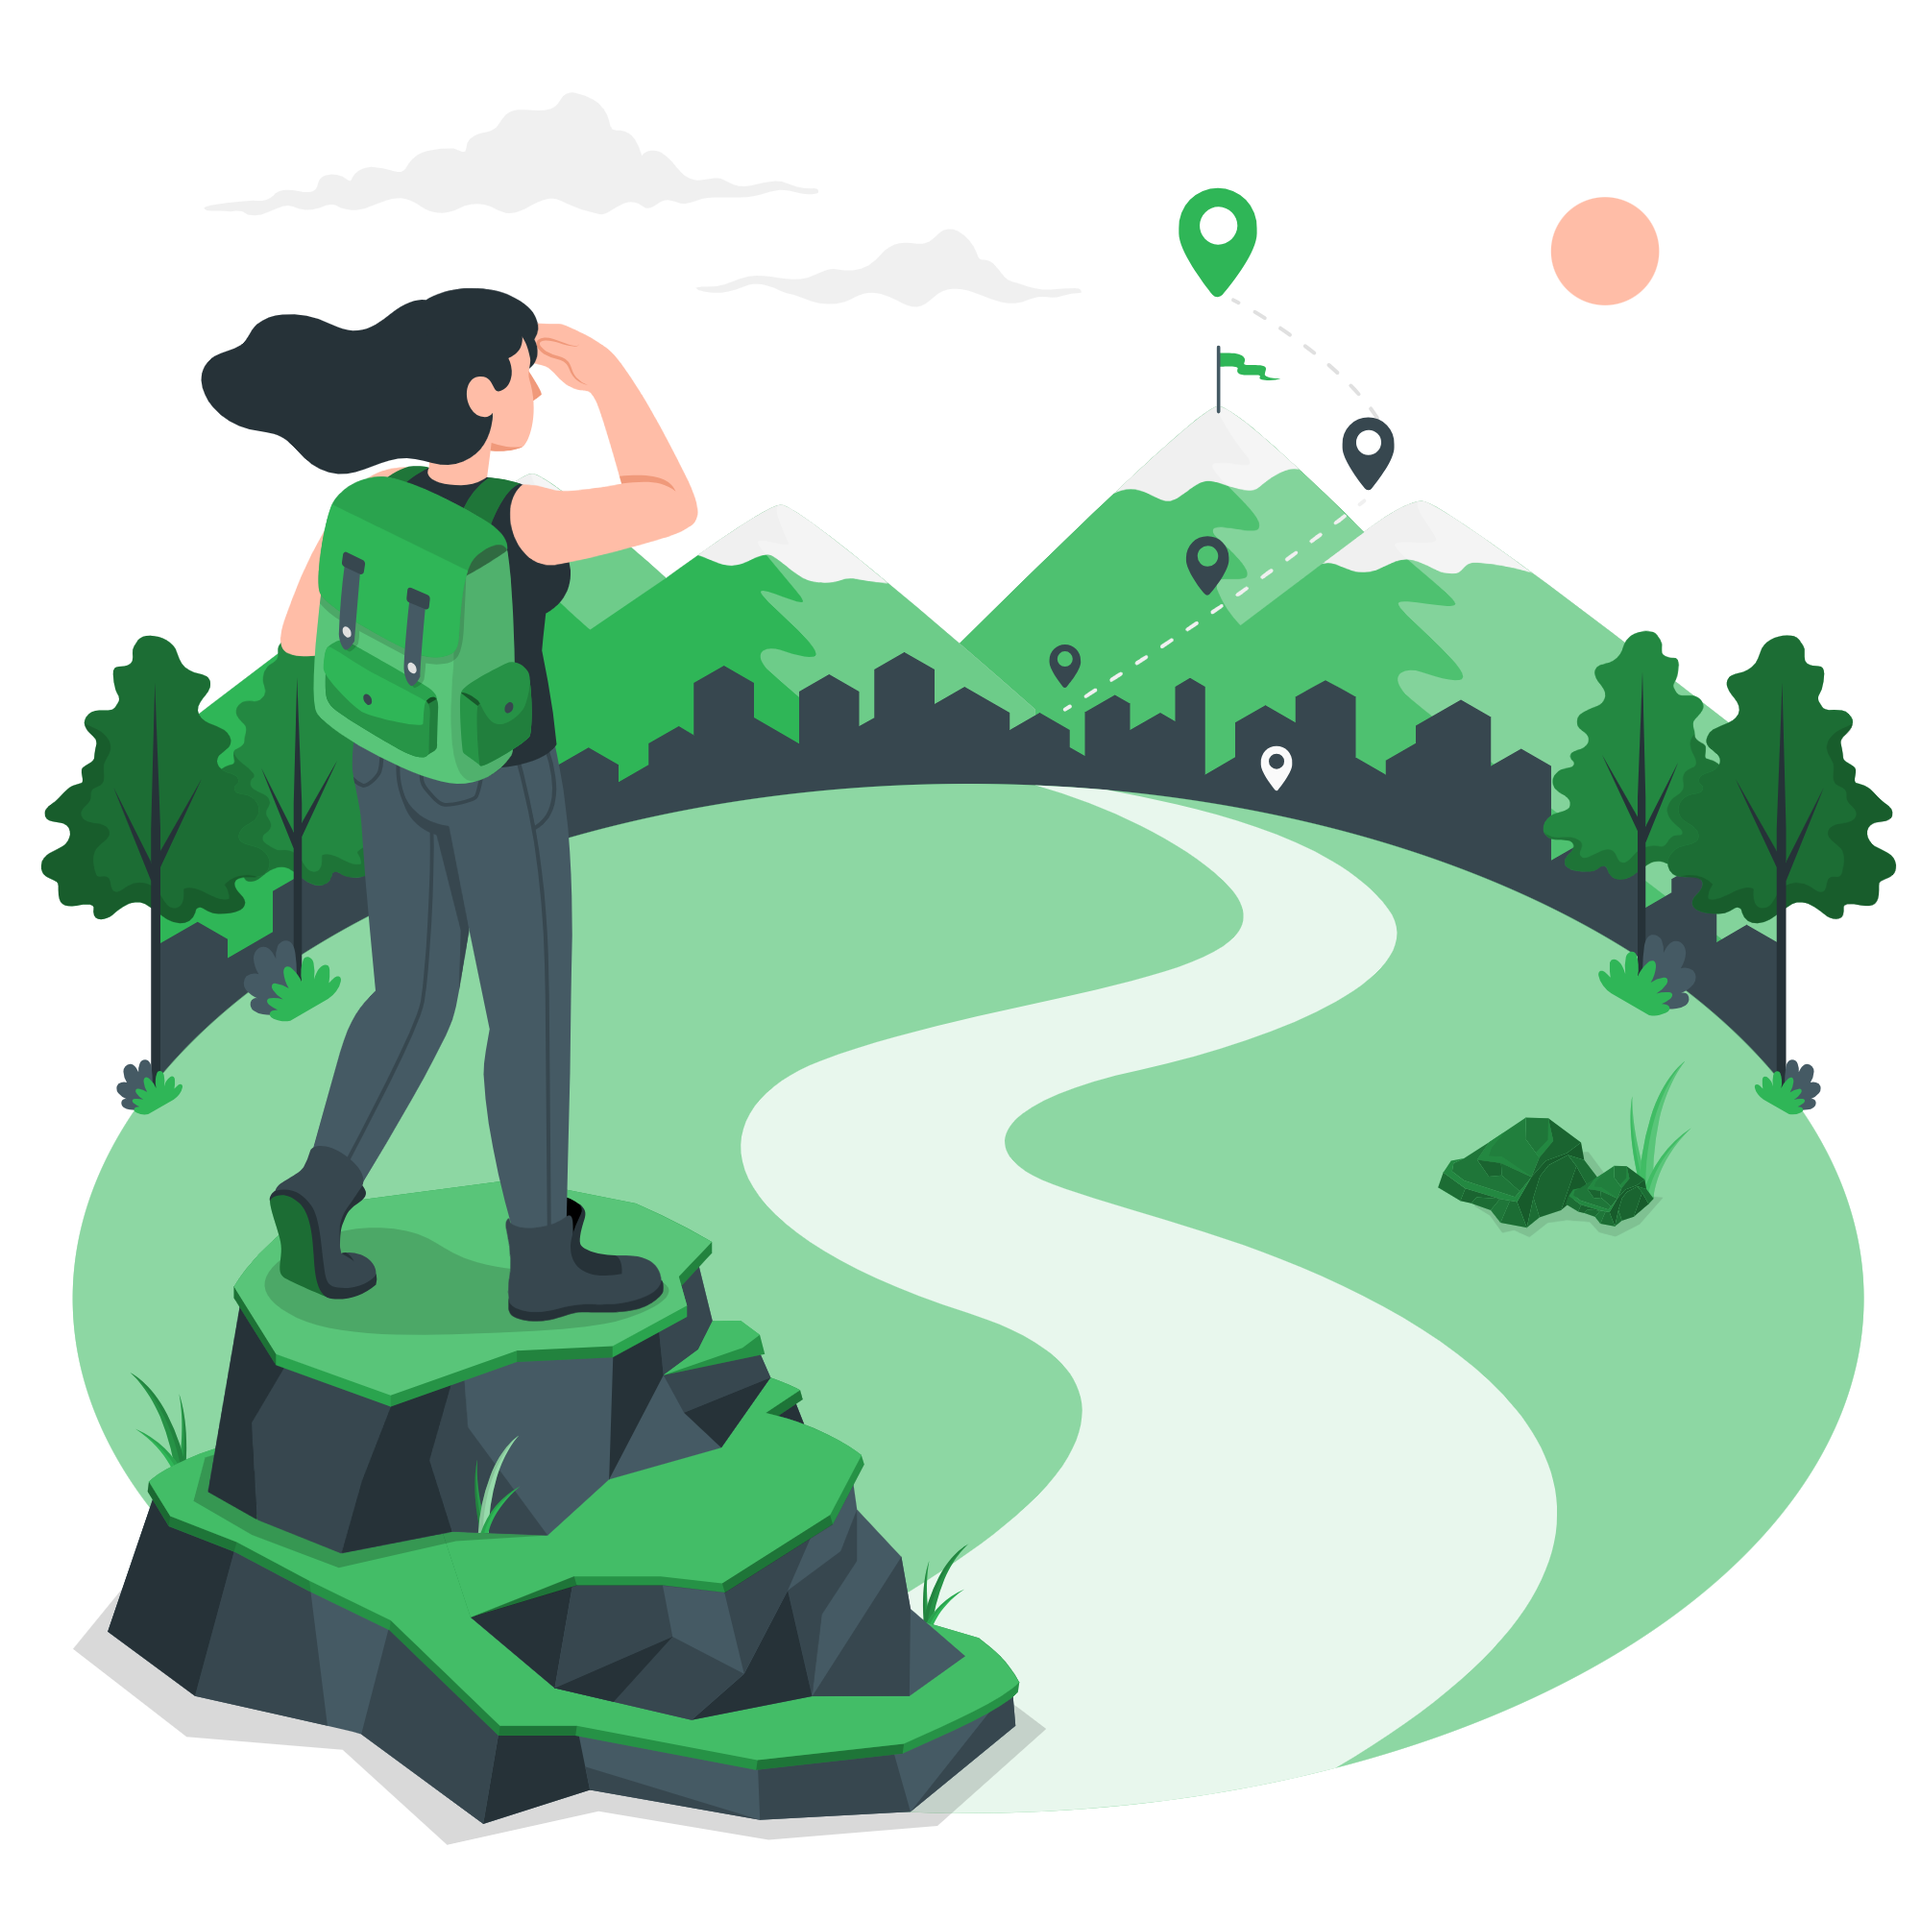
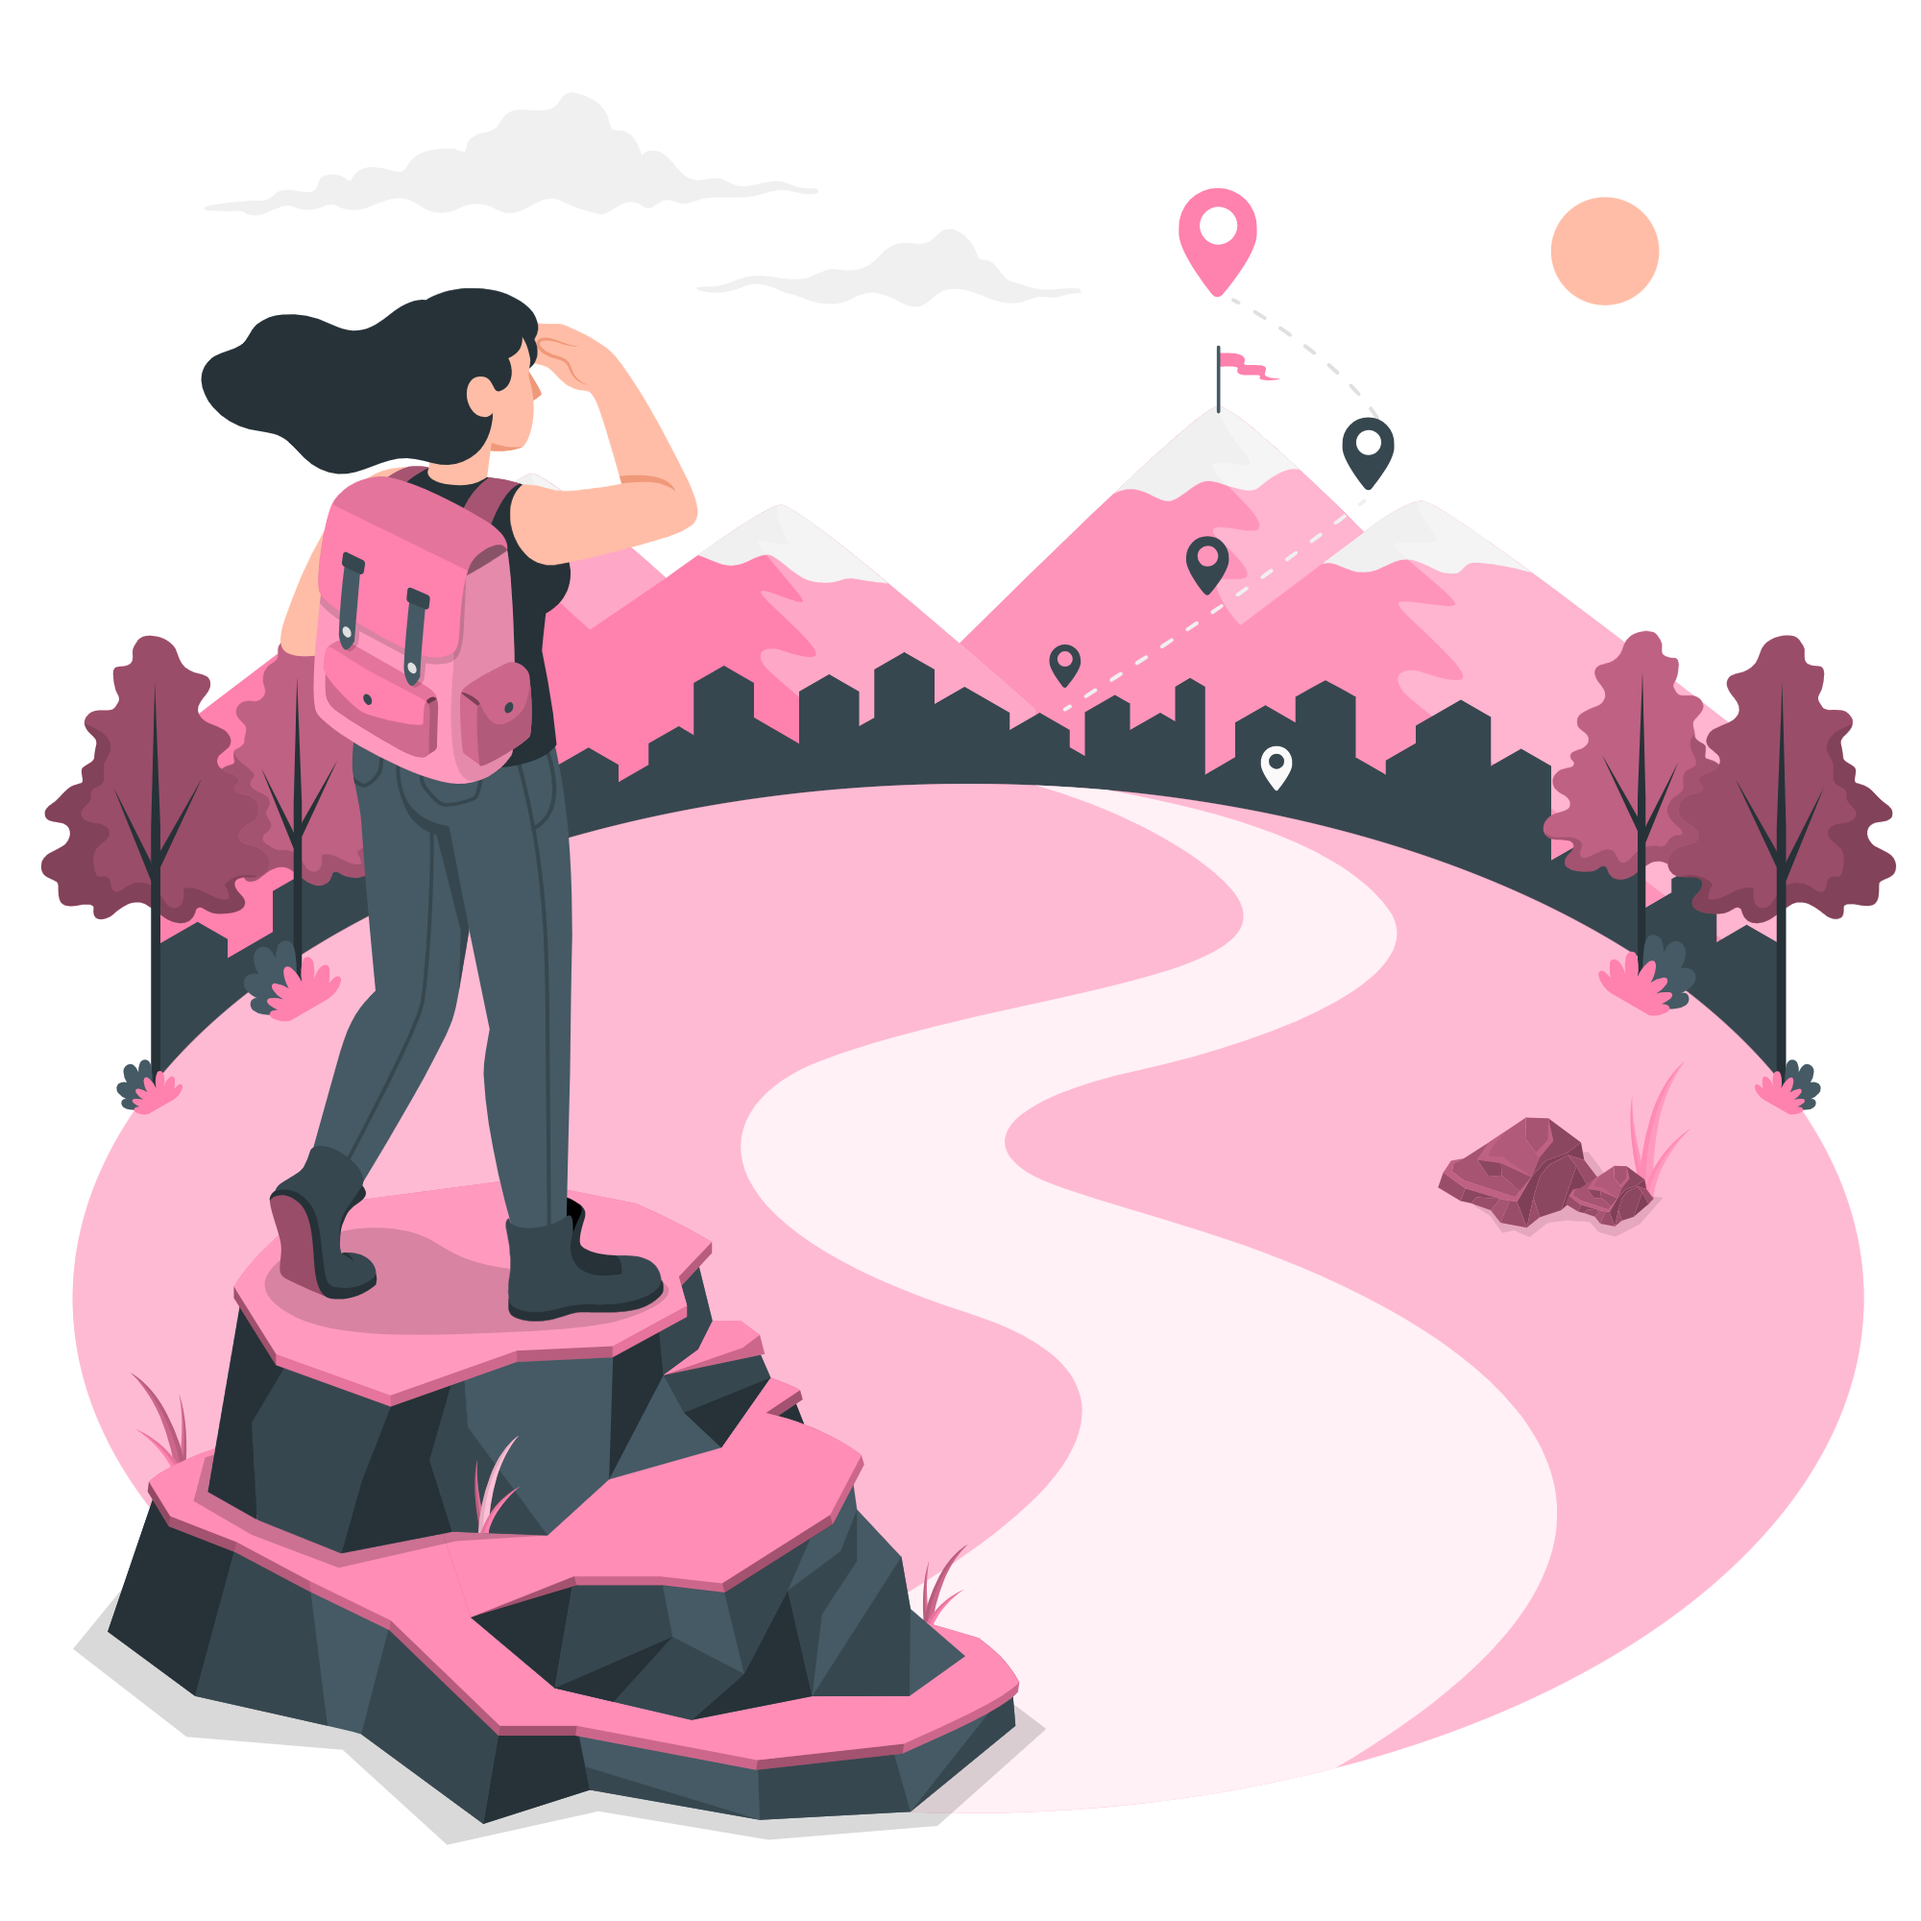
img added

diff --git a/index.html b/index.html
@@ -1,10 +1,22 @@
 <!DOCTYPE html>
+
 <head>
     <title>Document</title>
 </head>
+
 <body>
     <h1>Welcome to Snehal's HomeStay</h1>
-    <img src="./img/main-img.png" alt="HomeStay Image" height="300px" />
+    <img src="./img/main-img.png" alt="HomeStay Image" height="350px" />
     <p>The best place to stay during your visit! in salher</p>
+    &nbsp; &nbsp; &nbsp; &nbsp;&nbsp; &nbsp;&nbsp; &nbsp;&nbsp; &nbsp;
+    <a href="./pages/food.html"><img src="./img/food-icon.png" alt="Food Image" height="70px" /></a>&nbsp; &nbsp; &nbsp; &nbsp;&nbsp; &nbsp;&nbsp;
+    &nbsp;&nbsp; &nbsp;
+    <a href="./pages/stay.html"><img src="./img/stay-icon.png" alt="Stay Image" height="70px" /></a>
+    <br /><br />
+    <h2>
+        Directions to Snehal's HomeStay: salner  
+    </h2>
+    <iframe src="https://www.google.com/maps/embed?pb=!1m18!1m12!1m3!1d2491.0366132179224!2d1.4423099000000001!3d51.3656236!2m3!1f0!2f0!3f0!3m2!1i1024!2i768!4f13.1!3m3!1m2!1s0x47d95493735848a3%3A0x966e2b4d586c5003!2sSandcastle%20Cottage!5e0!3m2!1sen!2sin!4v1791296071542!5m2!1sen!2sin" width="100%" height="350" style="border:0;" allowfullscreen="" loading="lazy" referrerpolicy="strict-origin-when-cross-origin"></iframe>
 </body>
+
 </html>
